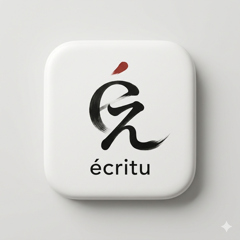
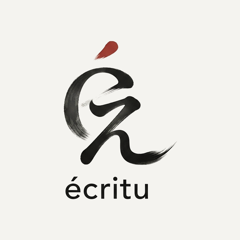
style(app): アイコンを平らな全面の絵に差し替え、生成ツールの透かしと立体タイルの外枠を除く(3348)
提出前監査(第3回)の指摘。元の 1024 は灰色の地に浮いた立体タイル(アイコンの中のアイコン)で、右下に生成ツールの
きらめきの透かしが入っていた。タイル面の陰影を推定して割り戻し、墨・朱・文字だけを取り出して、均一な紙色
(244,243,239)の全面に置き直した(線のかすれ・アンチエイリアスは保持)。9 サイズ、アプリ内のアイコン表示
(AppLogoDisplay)、ストアプレビューの icon.png を同じ絵から作り直した。アルファなし。

diff --git a/App/ContentView.swift b/App/ContentView.swift
@@ -7,7 +7,7 @@ import UIKit
 
 struct ContentView: View {
     static let sharedDefaults = UserDefaults(suiteName: SettingsKeys.appGroupID)
-    private static let editionUpdatedAtRaw: String = "20261004151853"
+    private static let editionUpdatedAtRaw: String = "20261004165048"
     static let diagnosticsTimestampFormatter: ISO8601DateFormatter = {
         let formatter = ISO8601DateFormatter()
         formatter.formatOptions = [.withInternetDateTime, .withFractionalSeconds]
